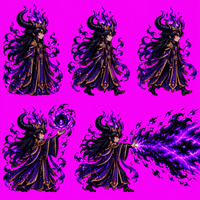
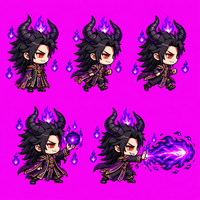
[Thiên Đạo] Đại Ma Thần vẽ lại kiểu chibi đầu to như NPC
Claude-Session: https://claude.ai/code/session_01BVnJmsGG4jWdJUy17v59Cp

diff --git a/docs/02-CHUAN-PIXEL.md b/docs/02-CHUAN-PIXEL.md
@@ -75,4 +75,4 @@ Bản chơi tạm hiện vẽ hình khối đơn giản. Khi sang bước 3, hì
 - 30/10/2026: 15 biểu tượng chiêu (`icon.*`) đổi sang Canva (`icon-chieu-1/2.png`), đệm giữa khung 16×16 vì nút chiêu kéo hình về ô vuông.
 - 30/10/2026: tia lửa trúng đòn (`fx.spark`), khói tan (`fx.puff`), đạn quái (`proj.fire`, `proj.vine`) đổi sang Canva (`props_ai.hit_fx`); vệt chém `fx.slash` của nhân vật chính giữ nguyên theo luật chỉ thêm không thay.
 - 31/10/2026: ngọc khảm 4 loại × 20 cấp (`gem.<loại>-<cấp>`, `tools/art/gems_ai.py`, nguồn `nguon/ai/ngoc/`): Hồng Ngọc ngọn lửa → phượng hoàng, Lam Ngọc giọt nước → rồng nước, Hoàng Ngọc ngôi sao → mặt trời sấm, Lục Ngọc chiếc lá → cây thế giới. Khung 28×28, 6 khung động: cấp ≥ 6 vệt sáng lướt, ≥ 11 sao lấp lánh, ≥ 16 hào quang nhịp thở. Hiện trong túi (Ngọc), ô khảm, hồ sơ (`src/ui/gem-icon.js`). Game vẫn tối đa cấp 10; hình cấp 11–20 vẽ sẵn, chờ chủ dự án chốt chỉ số.
-- 31/10/2026: Đại Ma Thần (`npc.dai-ma-than`, Đài Ma Thần ở Thiên Kiếm Phong) có hình Canva 5 dáng theo yêu cầu chủ dự án (trước chỉ là hình code). Cao 64, `bright` 1.45 vì ảnh gốc đen tím quá tối.
+- 31/10/2026: Đại Ma Thần (`npc.dai-ma-than`, Đài Ma Thần ở Thiên Kiếm Phong) có hình Canva chibi 5 dáng theo yêu cầu chủ dự án. Bản đầu tỉ lệ người thật, đầu nhỏ, bị chê "như người tí hon": nhân vật luôn là chibi đầu to (khoảng 2,5 đầu), cùng kiểu NPC; cao 52.
